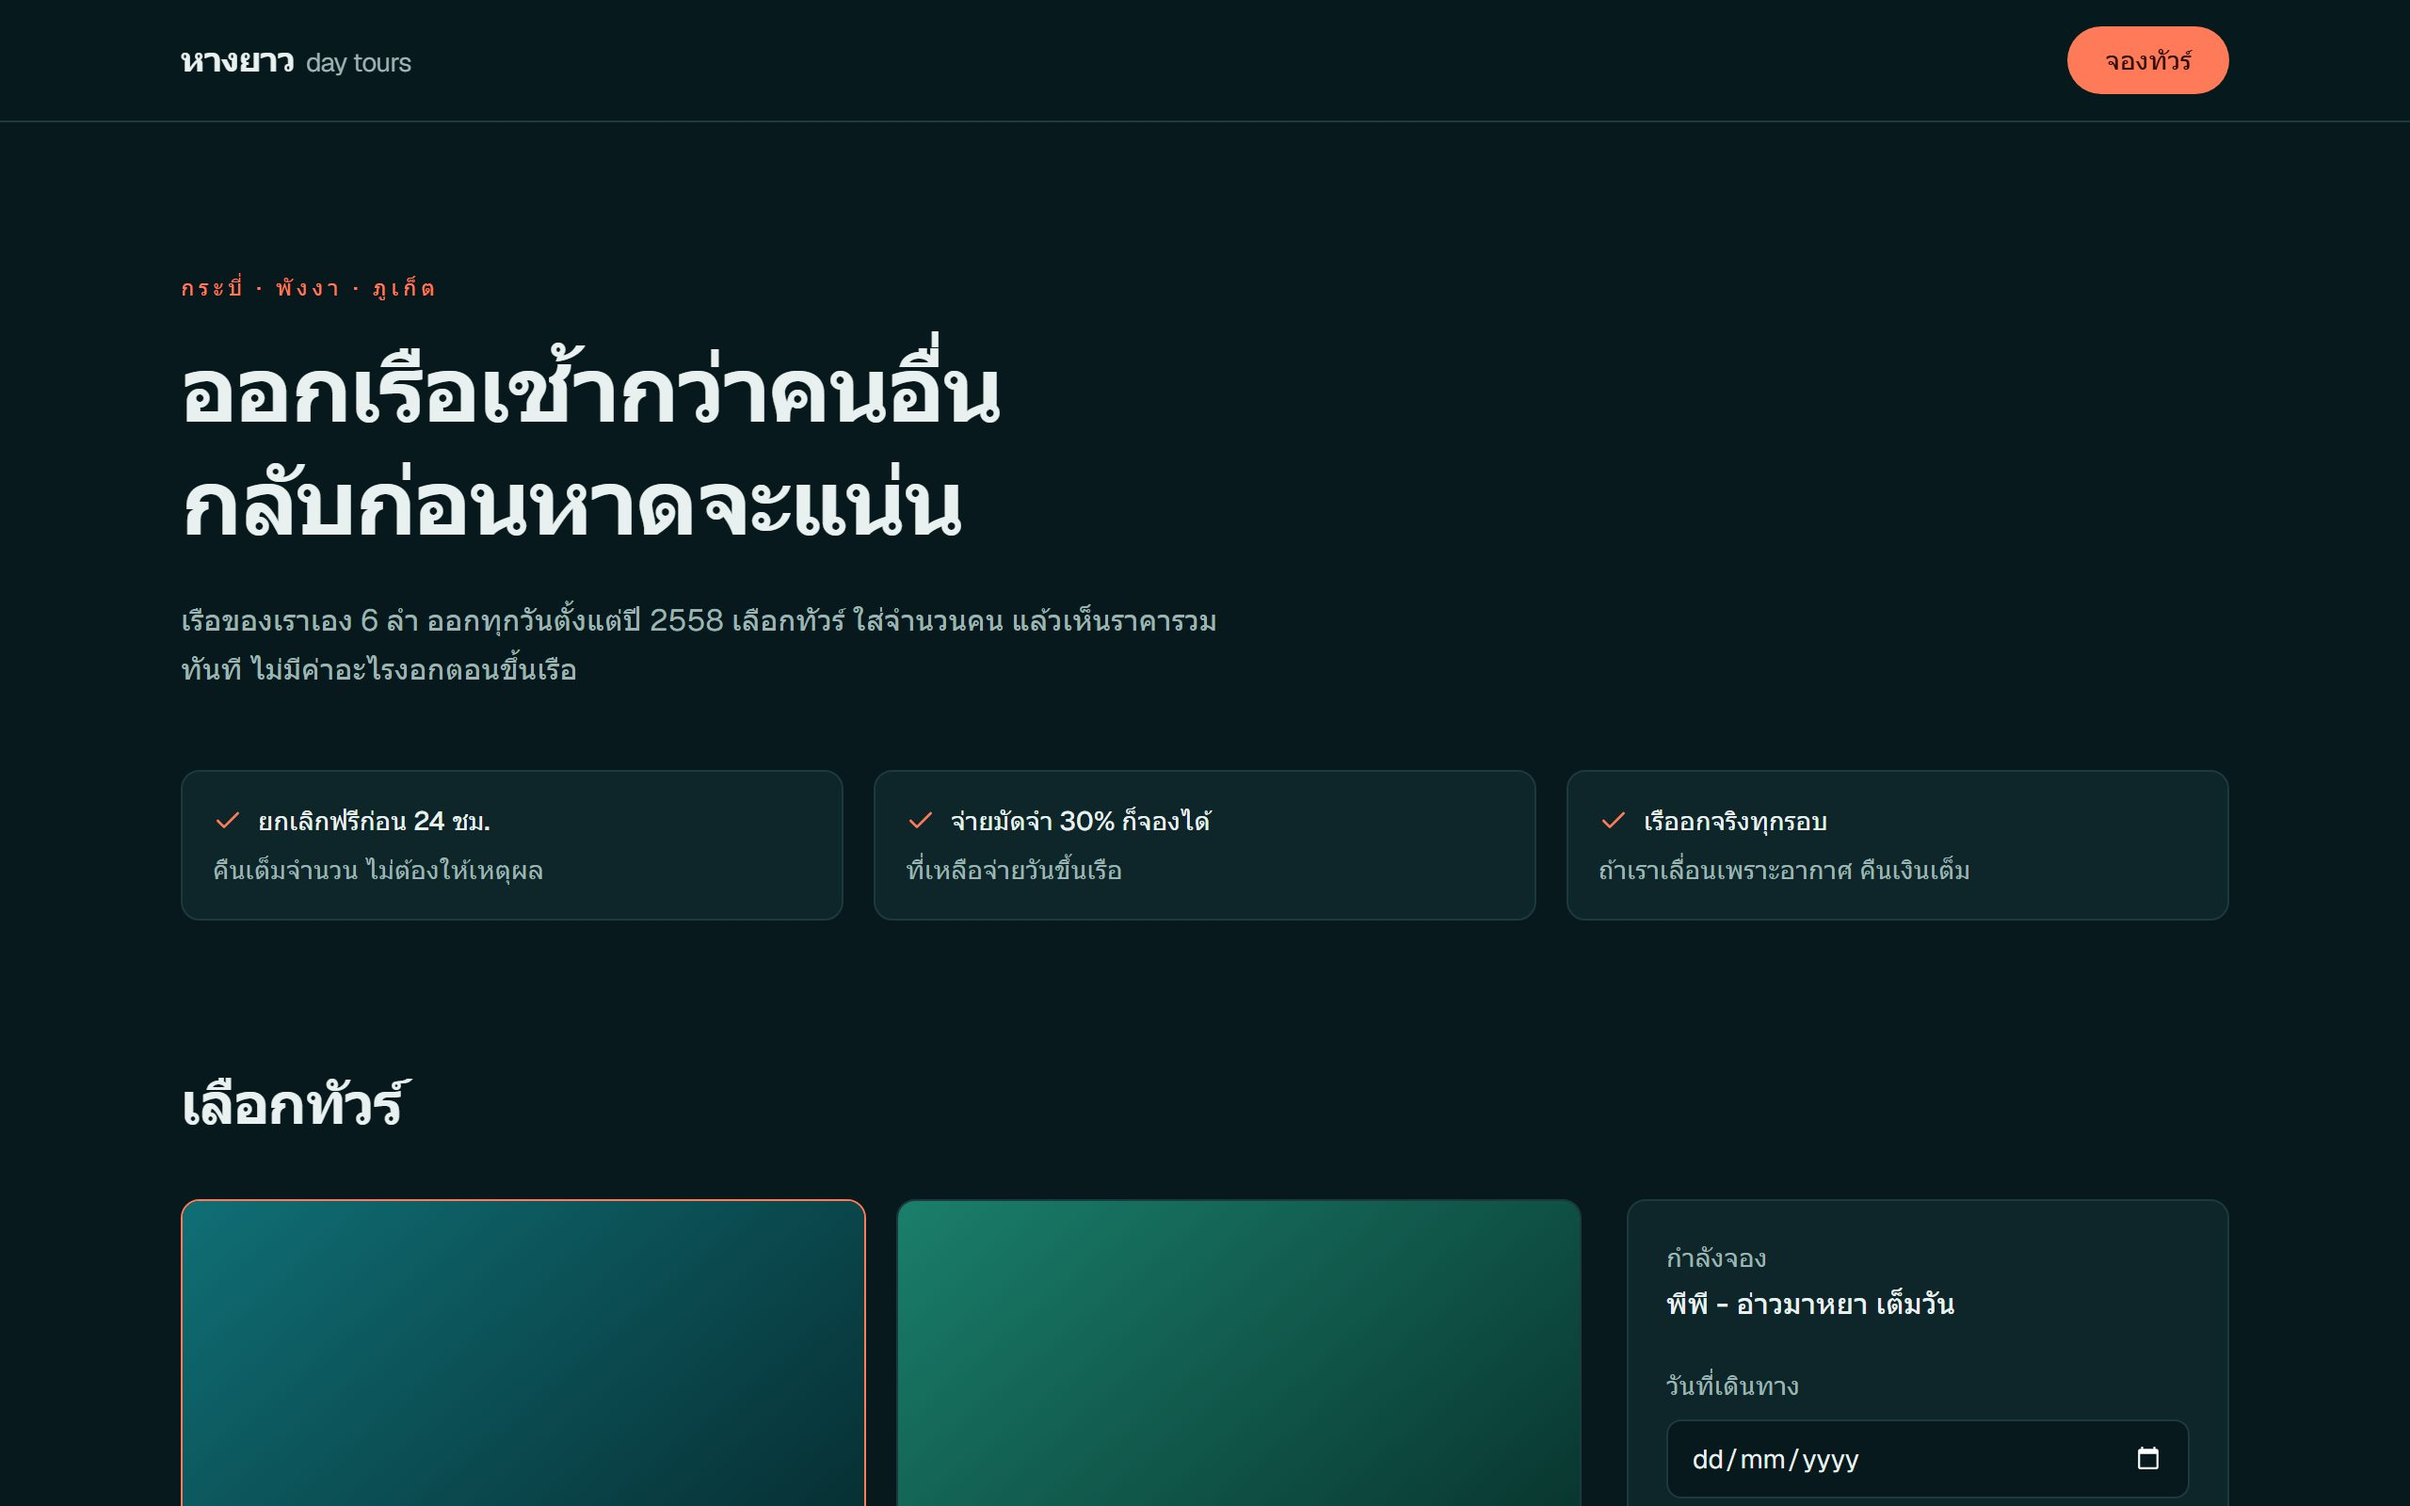
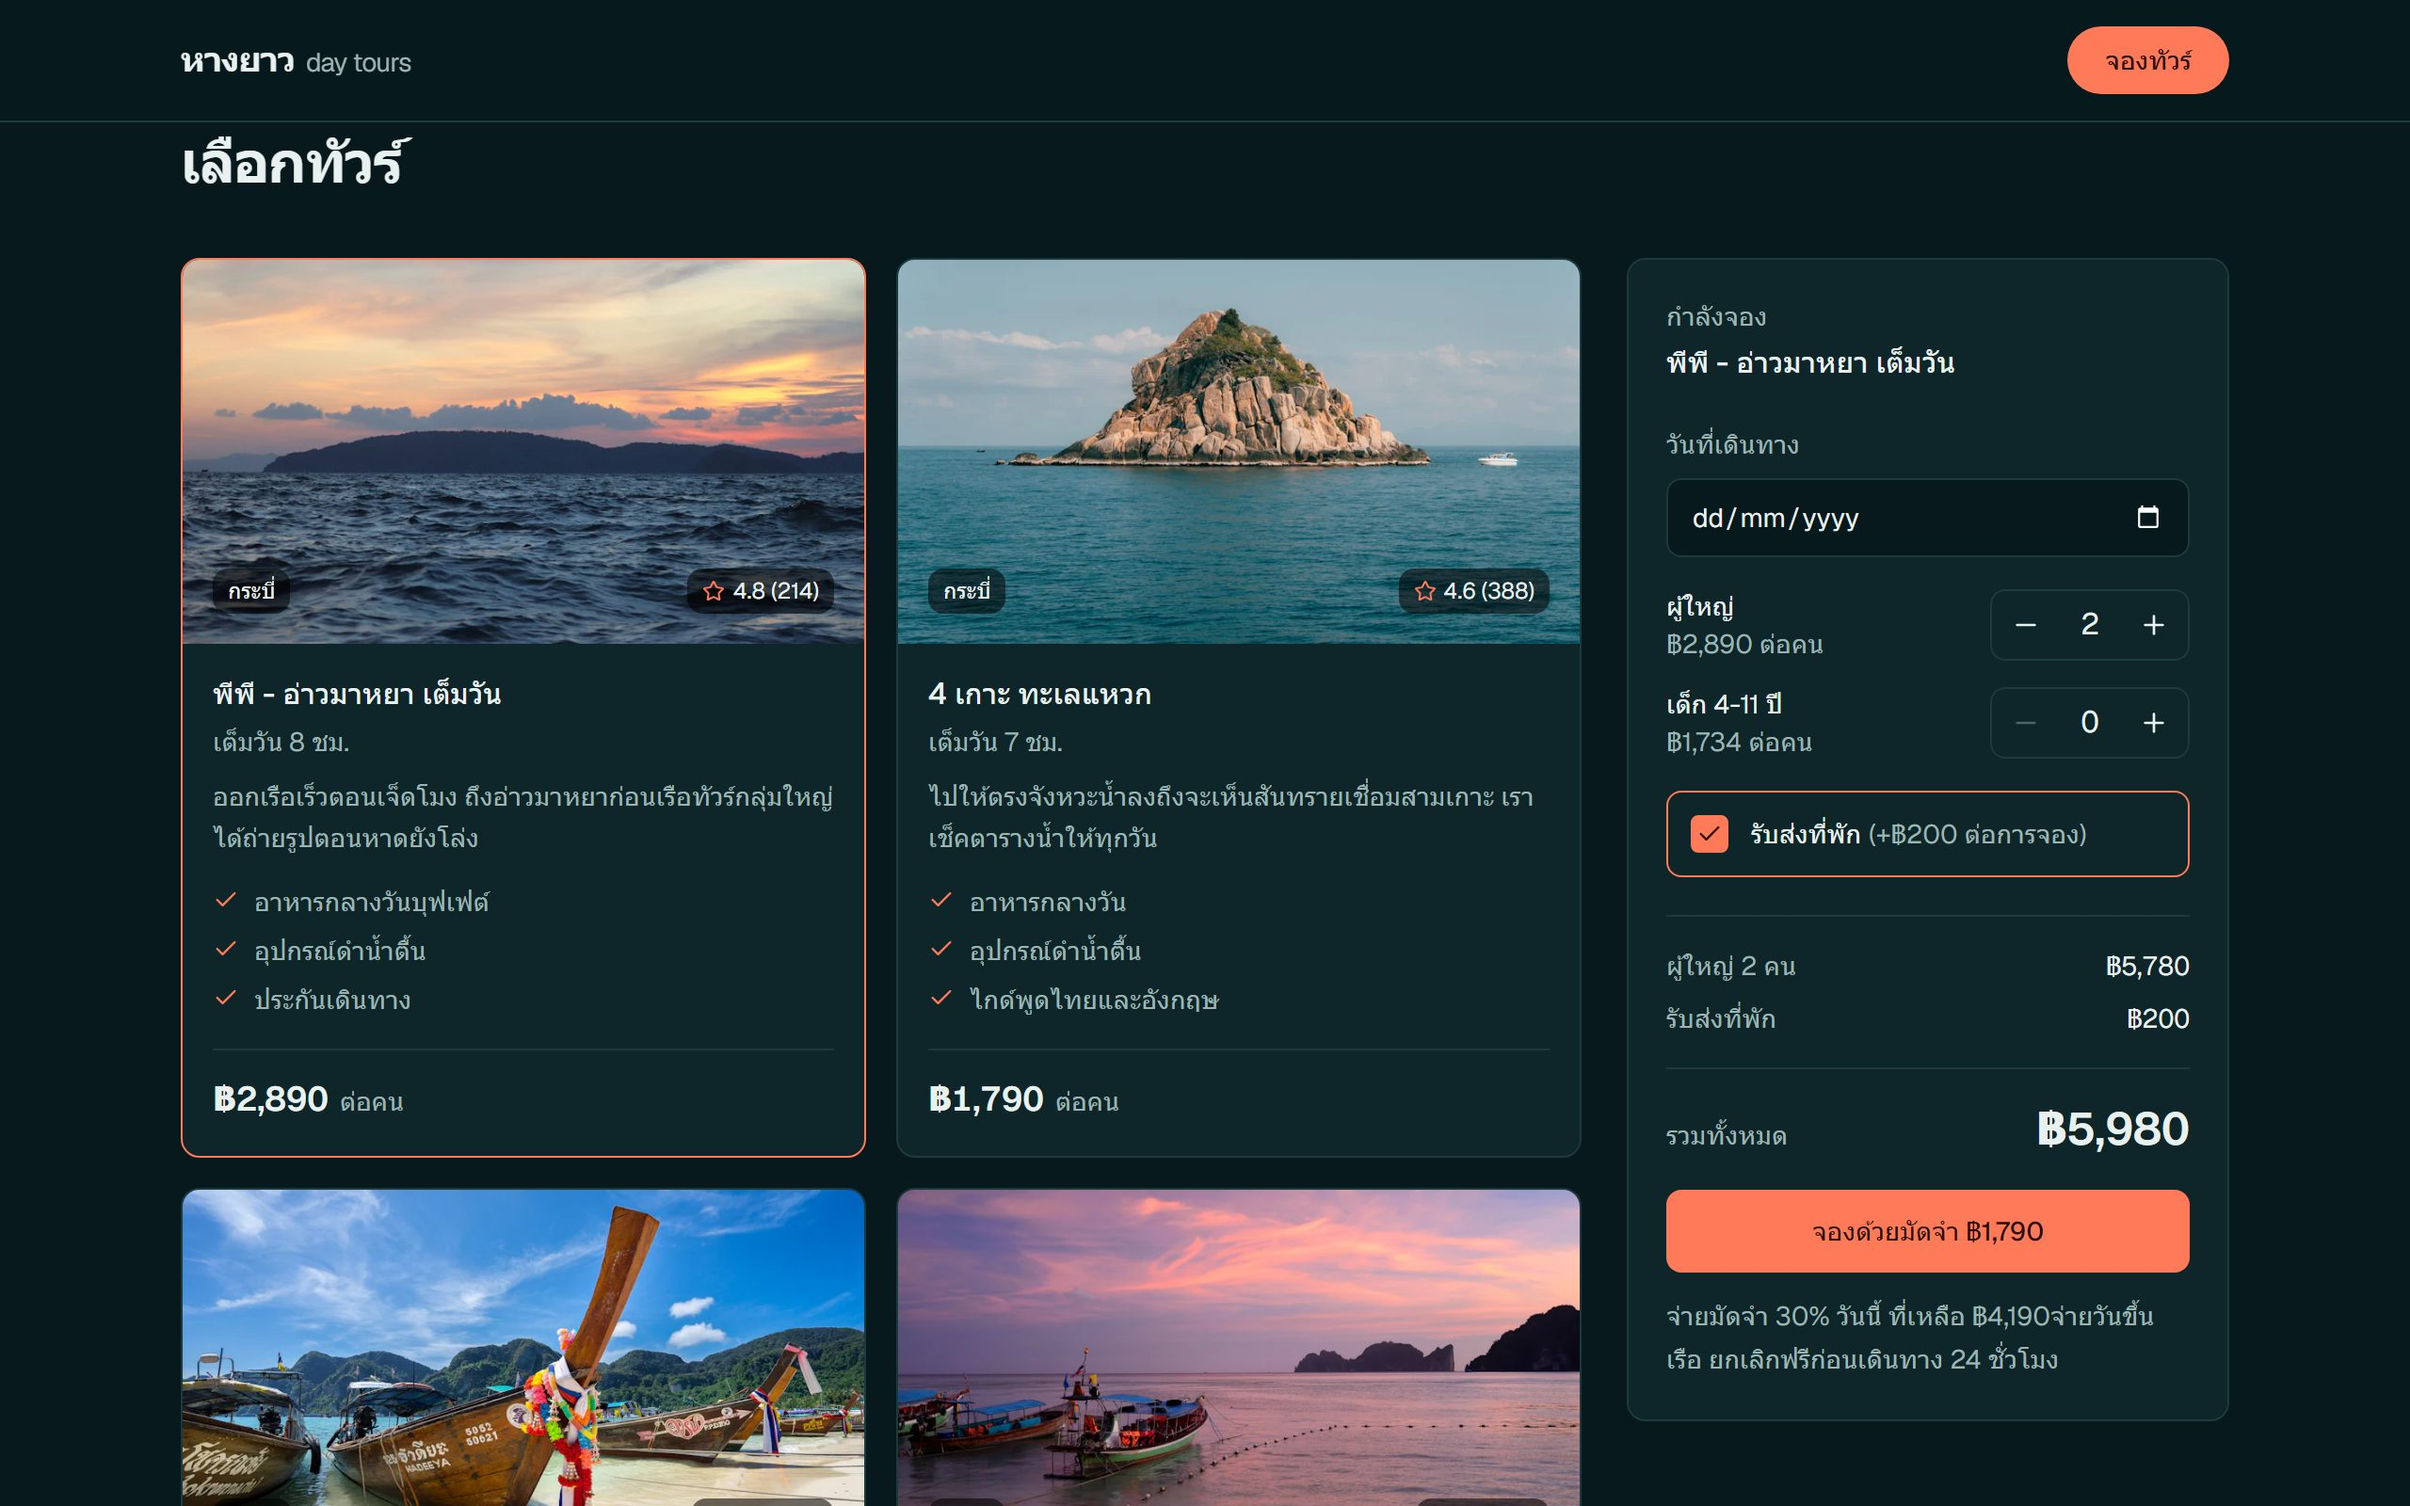
Put real photographs in Counter and Longtail
Both demos sell on the pictures and both were shipping without any, which made
the menu look like a page that had failed to load and the tour cards look like
colour swatches.

Eleven stock photographs from Unsplash, whose licence permits commercial use
with no attribution required. Each folder carries a README listing the photo id
behind every file and saying plainly that these are stand-ins: a client's site
ships with the client's own photography and these get deleted that day.

Counter takes five, which covers the three signature dishes and leaves the rest
on the drawn plate. That is deliberate rather than unfinished, since no shop
photographs its whole menu. Longtail takes six, one per tour, with the swatch
gradient left behind the image so a missing file degrades to colour instead of
a hole.

Sized at the width they render, 640x480 and 800x450, WebP between quality 50
and 72 depending on what each frame cost. 640KB for all eleven.

diff --git a/web/src/components/labs/longtail-demo.tsx b/web/src/components/labs/longtail-demo.tsx
@@ -1,6 +1,7 @@
 "use client";
 
 import { useState } from "react";
+import Image from "next/image";
 import Link from "next/link";
 import { motion } from "framer-motion";
 import { Check, Minus, Plus, Star } from "lucide-react";
@@ -28,7 +29,9 @@ interface Tour {
   reviews: number;
   blurb: string;
   includes: string[];
+  /** the gradient shown under the photo, and on its own without one */
   swatch: [string, string];
+  photo?: string;
 }
 
 const TOURS: Tour[] = [
@@ -43,6 +46,7 @@ const TOURS: Tour[] = [
     blurb:
       "ออกเรือเร็วตอนเจ็ดโมง ถึงอ่าวมาหยาก่อนเรือทัวร์กลุ่มใหญ่ ได้ถ่ายรูปตอนหาดยังโล่ง",
     includes: ["อาหารกลางวันบุฟเฟต์", "อุปกรณ์ดำน้ำตื้น", "ประกันเดินทาง"],
+    photo: "/lab-demos/longtail/phi-phi.webp",
     swatch: ["#0f6f75", "#062a2e"],
   },
   {
@@ -56,6 +60,7 @@ const TOURS: Tour[] = [
     blurb:
       "ไปให้ตรงจังหวะน้ำลงถึงจะเห็นสันทรายเชื่อมสามเกาะ เราเช็คตารางน้ำให้ทุกวัน",
     includes: ["อาหารกลางวัน", "อุปกรณ์ดำน้ำตื้น", "ไกด์พูดไทยและอังกฤษ"],
+    photo: "/lab-demos/longtail/four-islands.webp",
     swatch: ["#1a7f6b", "#07302a"],
   },
   {
@@ -68,6 +73,7 @@ const TOURS: Tour[] = [
     reviews: 156,
     blurb: "พายเรือแคนูลอดถ้ำลอด แวะหมู่บ้านปันหยี กินข้าวบนน้ำ",
     includes: ["เรือแคนูพร้อมคนพาย", "อาหารกลางวัน", "รับส่งที่พัก"],
+    photo: "/lab-demos/longtail/james-bond.webp",
     swatch: ["#2b6f9e", "#0a2b3e"],
   },
   {
@@ -80,6 +86,7 @@ const TOURS: Tour[] = [
     reviews: 97,
     blurb: "ออกบ่ายสอง คนน้อยกว่ารอบเช้ามาก แล้วปิดท้ายที่เกาะปอดูพระอาทิตย์ตก",
     includes: ["ของว่างและผลไม้", "อุปกรณ์ดำน้ำตื้น", "ประกันเดินทาง"],
+    photo: "/lab-demos/longtail/sunset-krabi.webp",
     swatch: ["#b4552f", "#3a1608"],
   },
   {
@@ -92,6 +99,7 @@ const TOURS: Tour[] = [
     reviews: 63,
     blurb: "ทัวร์ที่ไม่มีคิวแวะร้านของฝาก เวลาที่เหลือเอาไปอยู่บนหาดแทน",
     includes: ["ของว่าง", "อุปกรณ์ดำน้ำตื้น", "ค่าธรรมเนียมอุทยาน"],
+    photo: "/lab-demos/longtail/bamboo.webp",
     swatch: ["#0f6f75", "#052227"],
   },
   {
@@ -104,6 +112,7 @@ const TOURS: Tour[] = [
     reviews: 28,
     blurb: "ราคาต่อลำไม่เกิน 8 คน เลือกเกาะเอง ออกกี่โมงก็ได้ ไม่มีรอบรวม",
     includes: ["กัปตันและลูกเรือ", "อาหารกลางวัน", "รับส่งที่พัก"],
+    photo: "/lab-demos/longtail/private-boat.webp",
     swatch: ["#7a5a2e", "#2a1c08"],
   },
 ];
@@ -244,15 +253,25 @@ export function LongtailDemo() {
                     {/* the operator's own photography goes here; a demo has none,
                         so the card commits to colour instead of a grey box */}
                     <div
-                      className="flex aspect-[16/9] items-end justify-between p-4"
+                      className="relative flex aspect-[16/9] items-end justify-between p-4"
                       style={{
                         background: `linear-gradient(140deg, ${tour.swatch[0]}, ${tour.swatch[1]})`,
                       }}
                     >
-                      <span className="rounded-md bg-black/45 px-2 py-1 text-xs font-medium">
+                      {tour.photo && (
+                        <Image
+                          src={tour.photo}
+                          alt=""
+                          fill
+                          sizes="(min-width: 1024px) 30vw, (min-width: 640px) 45vw, 92vw"
+                          unoptimized
+                          className="object-cover"
+                        />
+                      )}
+                      <span className="relative rounded-md bg-black/55 px-2 py-1 text-xs font-medium">
                         {tour.area}
                       </span>
-                      <span className="flex items-center gap-1 rounded-md bg-black/45 px-2 py-1 text-xs">
+                      <span className="relative flex items-center gap-1 rounded-md bg-black/55 px-2 py-1 text-xs">
                         <Star className="h-3 w-3" style={{ color: ACCENT }} />
                         {tour.rating} ({tour.reviews})
                       </span>

diff --git a/web/src/components/labs/counter-demo.tsx b/web/src/components/labs/counter-demo.tsx
@@ -51,6 +51,7 @@ const MENU: Dish[] = [
     category: "ของทานเล่น",
     note: "ห่อสดทุกจาน ทอดหลังสั่ง",
     tags: ["ขายดี"],
+    photo: "/lab-demos/counter/spring-rolls.webp",
   },
   {
     name: "ยำมะม่วงปลาแห้ง",
@@ -73,6 +74,7 @@ const MENU: Dish[] = [
     category: "จานหลัก",
     note: "น้ำแกงเคี่ยวทุกเช้า สั่งเผ็ดน้อยได้",
     tags: ["ขายดี", "เผ็ด"],
+    photo: "/lab-demos/counter/sour-curry.webp",
   },
   {
     name: "ปลากะพงทอดน้ำปลา",
@@ -80,6 +82,7 @@ const MENU: Dish[] = [
     price: 420,
     category: "จานหลัก",
     note: "ตัวละ 700-800 กรัม",
+    photo: "/lab-demos/counter/sea-bass.webp",
   },
   {
     name: "หมูฮ้องริมคลอง",
@@ -88,6 +91,7 @@ const MENU: Dish[] = [
     category: "จานหลัก",
     note: "เคี่ยวสามชั่วโมง หมดแล้วหมดเลย",
     tags: ["ขายดี"],
+    photo: "/lab-demos/counter/braised-pork.webp",
   },
   {
     name: "ผัดผักบุ้งไฟแดง",
@@ -95,6 +99,7 @@ const MENU: Dish[] = [
     price: 90,
     category: "จานหลัก",
     tags: ["มังสวิรัติ", "เผ็ด"],
+    photo: "/lab-demos/counter/morning-glory.webp",
   },
   {
     name: "ข้าวเหนียวมะม่วง",

diff --git a/web/public/lab-demos/counter/README.md b/web/public/lab-demos/counter/README.md
@@ -1,0 +1,20 @@
+# Counter demo photography
+
+Stock photographs standing in for a restaurant's own, used by `/labs/counter`.
+
+Source: Unsplash, fetched 2026-09-05. The Unsplash License allows commercial and
+non-commercial use with no permission and no attribution required, so these are
+safe on a portfolio. They are still stand-ins: a real client's site ships with
+the client's own photographs, and these get deleted the moment that happens.
+
+| file | Unsplash photo id |
+| --- | --- |
+| spring-rolls.webp | 1623253083987-26681ce4a992 |
+| sour-curry.webp | 1618449840665-9ed506d73a34 |
+| braised-pork.webp | 1785502108253-0ab0beea1ea8 |
+| morning-glory.webp | 1587040690786-b091531837a2 |
+| sea-bass.webp | 1574484284002-952d92456975 |
+
+Fetched at 640x480, `fit=crop&crop=entropy`, WebP, quality 50 to 72 depending on
+how much each frame cost. Dishes without a file draw a plate instead, which is
+deliberate: no shop photographs its whole menu.

diff --git a/web/public/lab-demos/longtail/README.md b/web/public/lab-demos/longtail/README.md
@@ -1,0 +1,19 @@
+# Longtail demo photography
+
+Stock photographs standing in for a tour operator's own, used by `/labs/longtail`.
+
+Source: Unsplash, fetched 2026-09-05, same licence terms as the Counter set next
+door: commercial use allowed, no attribution required. Stand-ins all the same.
+
+| file | Unsplash photo id |
+| --- | --- |
+| phi-phi.webp | 1706195782033-6a351ce67878 |
+| four-islands.webp | 1746014768185-58763c7553d7 |
+| james-bond.webp | 1519915247718-1703f9c6bb15 |
+| sunset-krabi.webp | 1442548520776-20acf66617df |
+| bamboo.webp | 1547637076-3e0fefae5d71 |
+| private-boat.webp | 1570135460228-ca23c8cf37c2 |
+
+Fetched at 800x450, `fit=crop&crop=entropy`, WebP, quality 52 to 72. Each tour's
+`swatch` gradient stays behind the photo, so a missing file degrades to colour
+rather than to a hole.
